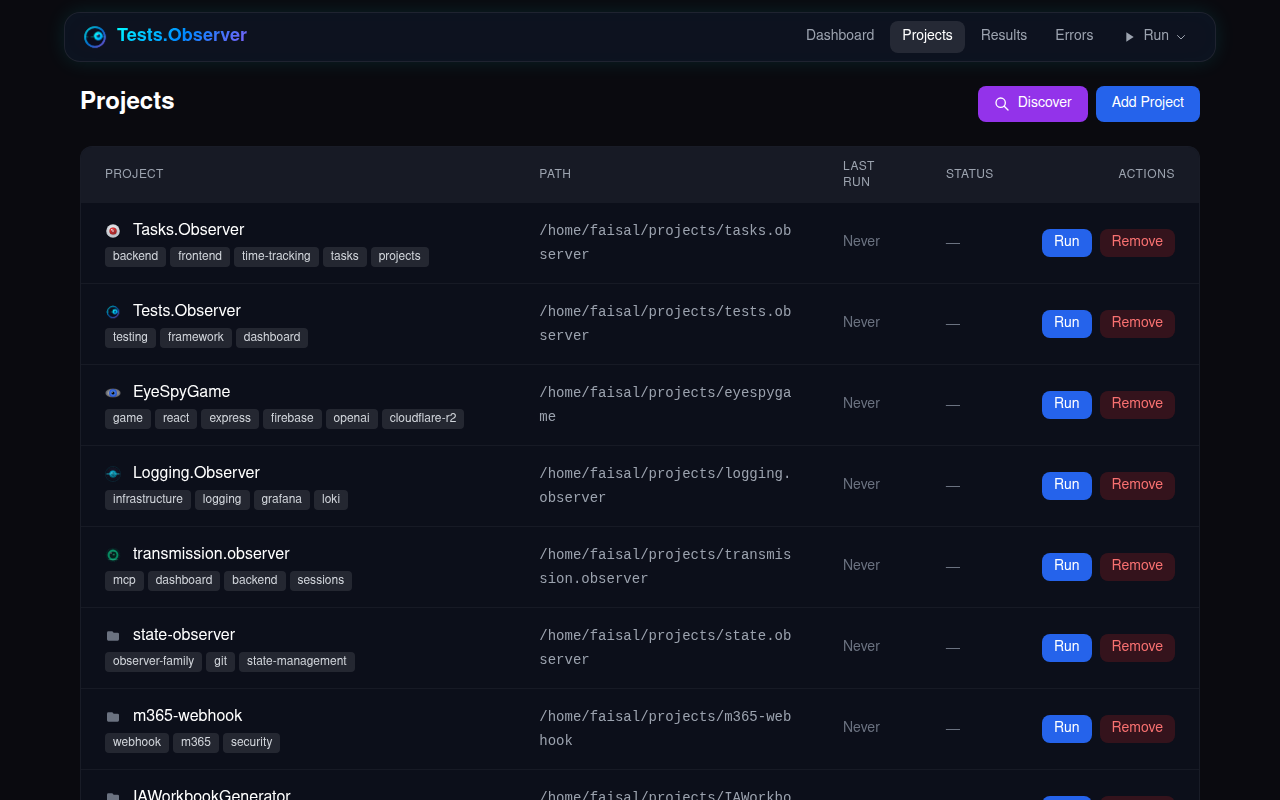
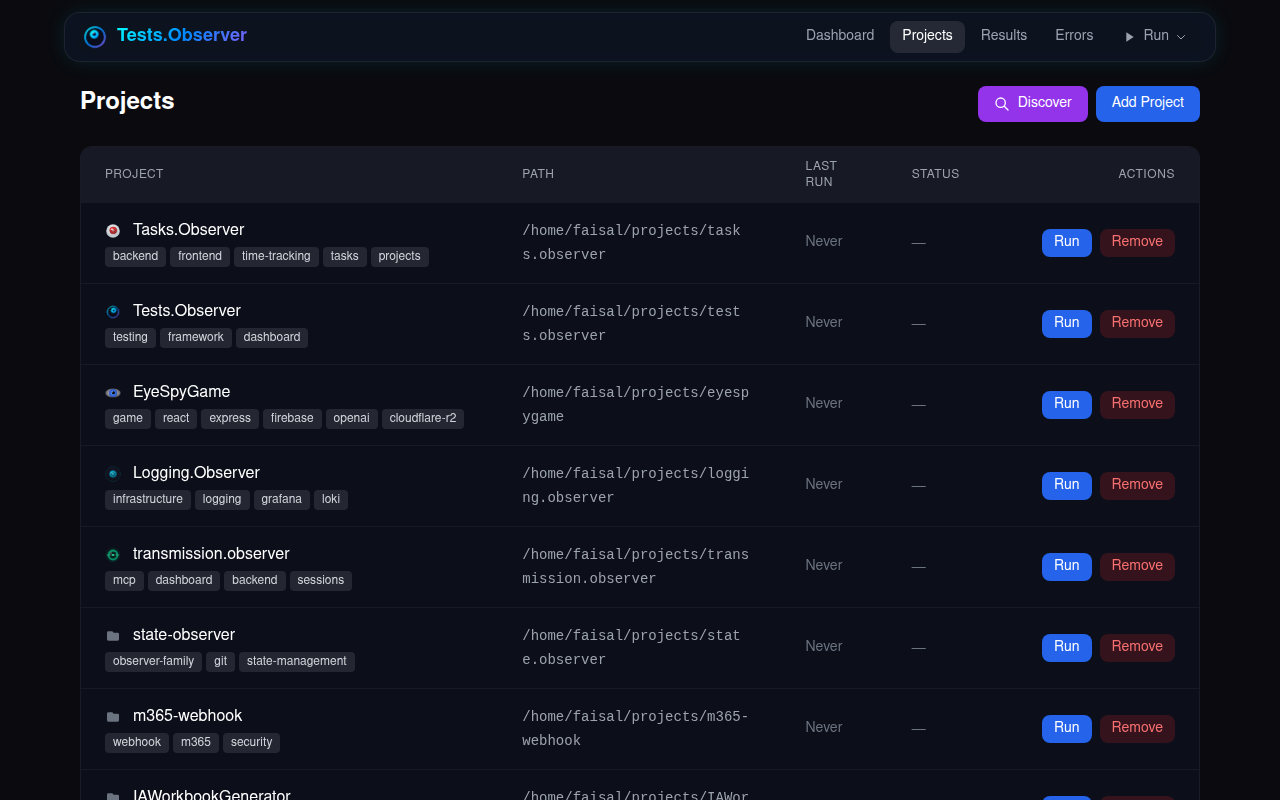
Add tests.observer client-errors capture + refresh projects
- New: tests-observer/client-errors.png — Errors panel showing the per-project error tab structure (Errors / Sessions / Setup sub-tabs)
- Refreshed: tests-observer/projects.png — live capture with current project list (Tasks, Tests, EyeSpyGame, Logging, transmission, state, m365-webhook, IAWorkbookGenerator, ...)
- Updated tests-observer frontmatter to include client-errors in the carousel

State.observer SPA tabs (Simulations, Fleet) require interactive click-navigation rather than URL paths and didn't add useful content (empty states). Cost.observer sub-pages (Analytics, Live, Requests, Providers) all return 403/login-redirect when unauthenticated — only the Overview tab is viable without sign-in.

diff --git a/docs/_posts/2026-01-29-Tests-Observer-One-Test-Runner-Every-Repo.md b/docs/_posts/2026-01-29-Tests-Observer-One-Test-Runner-Every-Repo.md
@@ -13,6 +13,8 @@ screenshots:
     caption: Registered projects with auto-detected stack tags and one-click run buttons
   - src: /blog/images/screenshots/tests-observer/errors-setup.png
     caption: Drop-in script tag — capture client-side errors, breadcrumbs, and perf from any site
+  - src: /blog/images/screenshots/tests-observer/client-errors.png
+    caption: Errors panel — browser errors, console logs, and failed requests aggregated per project
 ---
 
 > What if every test result in your org — human or AI-triggered — showed up on the task that produced it?
